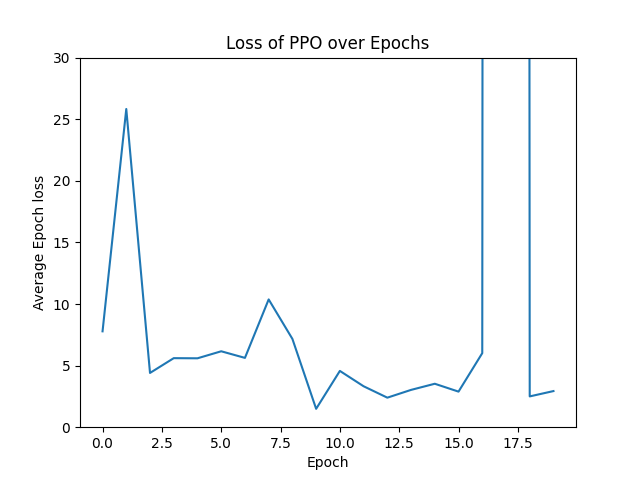
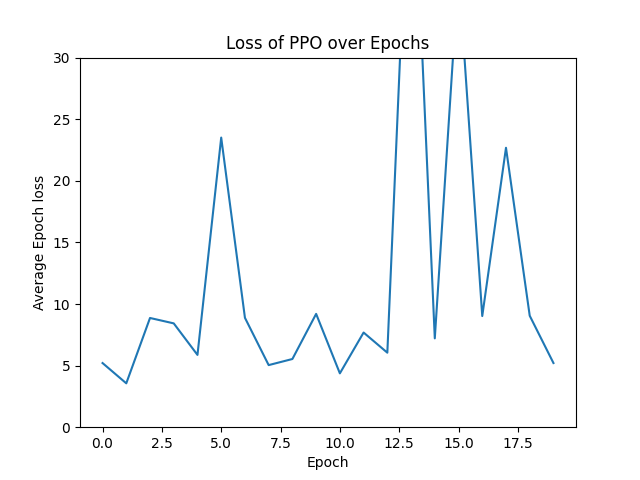
added softmax probability selection

diff --git a/src/ppo.py b/src/ppo.py
@@ -57,12 +57,13 @@ class ACNN(nn.Module):
 
         return output
 
+
 class PPO:
 
     def __init__(self, env, alpha=0.1, gamma=0.99):
         self.env = env
-        self.obs_dim = 2 # grid world is 10x10
-        self.action_dim = 4 # there are four discrete actions that can be taken (up, right, down, left)
+        self.obs_dim = 2  # grid world is 10x10
+        self.action_dim = 4  # there are four discrete actions that can be taken (up, right, down, left)
         self.actor = ACNN(self.obs_dim, self.action_dim)
         self.critic = ACNN(self.obs_dim, 1)
 
@@ -72,6 +73,7 @@ class PPO:
 
         self.a_optim = Adam(self.actor.parameters(), lr=self.alpha)
         self.c_optim = Adam(self.critic.parameters(), lr=self.alpha)
+        self.softmax = nn.Softmax(dim=0)
 
         self.logger = {
             'delta_t': time.time_ns(),
@@ -110,7 +112,7 @@ class PPO:
         self.test = np.array(data)
 
     def learn(self, n_episodes):
-        t = 0 # t = current time step
+        t = 0  # t = current time step
         i_so_far = 0
         while t < n_episodes:
             batch_s, batch_a, batch_log_probs, batch_rtgs, batch_lens = self.rollout()
@@ -126,9 +128,9 @@ class PPO:
             self.logger['t_so_far'] = t
             self.logger['i_so_far'] = i_so_far
 
-            adv_k = batch_rtgs - v.detach() # getting the advantages for the time steps
+            adv_k = batch_rtgs - v.detach()  # getting the advantages for the time steps
 
-            adv_k = (adv_k - adv_k.mean()) / (adv_k.std() + 1e-10) # normalizing the advantages
+            adv_k = (adv_k - adv_k.mean()) / (adv_k.std() + 1e-10)  # normalizing the advantages
 
             for i in range(self.n_updates_per_iteration):
                 v, curr_log_probs = self.evaluate(batch_s, batch_a)
@@ -136,7 +138,7 @@ class PPO:
                 ratios = torch.exp(curr_log_probs - batch_log_probs)
 
                 s1 = ratios * adv_k
-                s2 = torch.clamp(ratios, 1-self.clip, 1 + self.clip)
+                s2 = torch.clamp(ratios, 1 - self.clip, 1 + self.clip)
 
                 actor_loss = (-torch.min(s1, s2)).mean()
                 self.a_optim.zero_grad()
@@ -150,7 +152,6 @@ class PPO:
 
                 self.logger['actor_losses'].append(actor_loss.detach())
 
-
             self._log_summary()
 
             # Save our model if it's time
@@ -159,8 +160,8 @@ class PPO:
                 torch.save(self.critic.state_dict(), './ppo_critic.pth')
 
     def _init_hp(self, alpha, gamma):
-        self.steps_per_batch = 10000
-        self.max_episode = 500 # maximum timesteps per episode: prevents episode from runnning forever
+        self.steps_per_batch = 5000
+        self.max_episode = 200  # maximum timesteps per episode: prevents episode from runnning forever
         self.gamma = gamma
         self.n_updates_per_iteration = 10
         self.clip = 0.2
@@ -212,16 +213,18 @@ class PPO:
         return batch_s, batch_a, batch_log_probs, batch_rtgs, batch_lens
 
     def get_action(self, s):
-        mean = self.actor(s) # get mean action from the actor network
+        mean = self.actor(s)  # get mean action from the actor network
 
-        dist = MultivariateNormal(mean, self.cov_mat) # get multivariate distribution to help with exploring
+        # mean = torch.log(mean)
+        dist = MultivariateNormal(mean, self.cov_mat)  # get multivariate distribution to help with exploring
         a = dist.sample()
         log_prob = dist.log_prob(a)
-        if a.ndim == 1:
-            a = a.argmax()
+        a = np.random.choice(4, p=self.softmax(a).detach().numpy())
+        """if a.ndim == 1:
+            a = np.random.choice(4, p=self.softmax(a).detach().numpy())
         else:
-            a = a.argmax(dim=1)
-        return a.detach().numpy(), log_prob.detach()
+            a = np.random.choice(4, p=self.softmax(a).detach().numpy())"""
+        return np.array(a), log_prob.detach()
 
     def rtgs_comp(self, batch_r):
         batch_rtgs = []
@@ -268,7 +271,6 @@ class PPO:
         avg_ep_rews = np.mean([np.sum(ep_rews) for ep_rews in self.logger['batch_rews']])
         avg_actor_loss = np.mean([losses.float().mean() for losses in self.logger['actor_losses']])
 
-
         self.logger['overall_reward'].append(avg_ep_rews)
         self.logger['overall_loss'].append(avg_actor_loss)
 
@@ -312,12 +314,10 @@ class PPO:
                 counter += 1
             elif a == opt2[2]:
                 counter += 1
-        return correct/counter
-
+        return correct / counter
 
 
 def train(env, alpha, gamma, n_steps=200000):
-
     print("Beginning training procedure")
     model = PPO(env, alpha, gamma)
     model.learn(n_steps)
@@ -346,8 +346,9 @@ def train(env, alpha, gamma, n_steps=200000):
     plt.close()
 
     return model.logger['overall_loss'], model.logger['overall_reward'], model.logger['batch_accuracy']
-def test(env, actor_model):
 
+
+def test(env, actor_model):
     print(f"Testing {actor_model}", flush=True)
 
     # If the actor model is not specified, then exit
@@ -370,18 +371,18 @@ def test(env, actor_model):
     # independently as a binary file that can be loaded in with torch.
     eval_policy(policy=policy, env=env, render=True)
 
-def train_set():
-    env = RewardModelSimulator()
 
+def train_set(env):
     losses = {}
     rewards = {}
+    accuracy = {}
     for alpha in [0.005, 0.01, 0.02, 0.05]:
-        for gamma in [0.925]:
-            l, r = train(env, alpha, gamma, 200000)
+        for gamma in [0.925, 0.95, 0.99]:
+            l, r, a = train(env, alpha, gamma, 200000)
 
             losses[f"{alpha}:{gamma}"] = l
             rewards[f"{alpha}:{gamma}"] = r
-
+            accuracy[f"{alpha}:{gamma}"] = a
 
     for loss in losses:
         plt.plot(losses[loss], label=loss)
@@ -400,8 +401,18 @@ def train_set():
     plt.legend()
     plt.savefig(f"../model_plots/combined_PPO_reward_over_epochs.png")
     plt.close()
-    #test(env, actor_model='ppo_actor.pth')
 
-env = RewardModelSimulator()
+    for acc in accuracy:
+        plt.plot(accuracy[acc], label=acc)
+    plt.title("Accuracy of PPO over Epochs")
+    plt.xlabel("Epoch")
+    plt.ylabel("Accuracy")
+    plt.legend()
+    plt.savefig(f"../model_plots/combined_PPO_accuracy_over_epochs.png")
+    plt.close()
+    # test(env, actor_model='ppo_actor.pth')
 
-train(env, 0.02, 0.925, 200000)
+
+if __name__ == "__main__":
+    env = RewardModelSimulator()
+    train(env, 0.01, 0.99, 100000)
